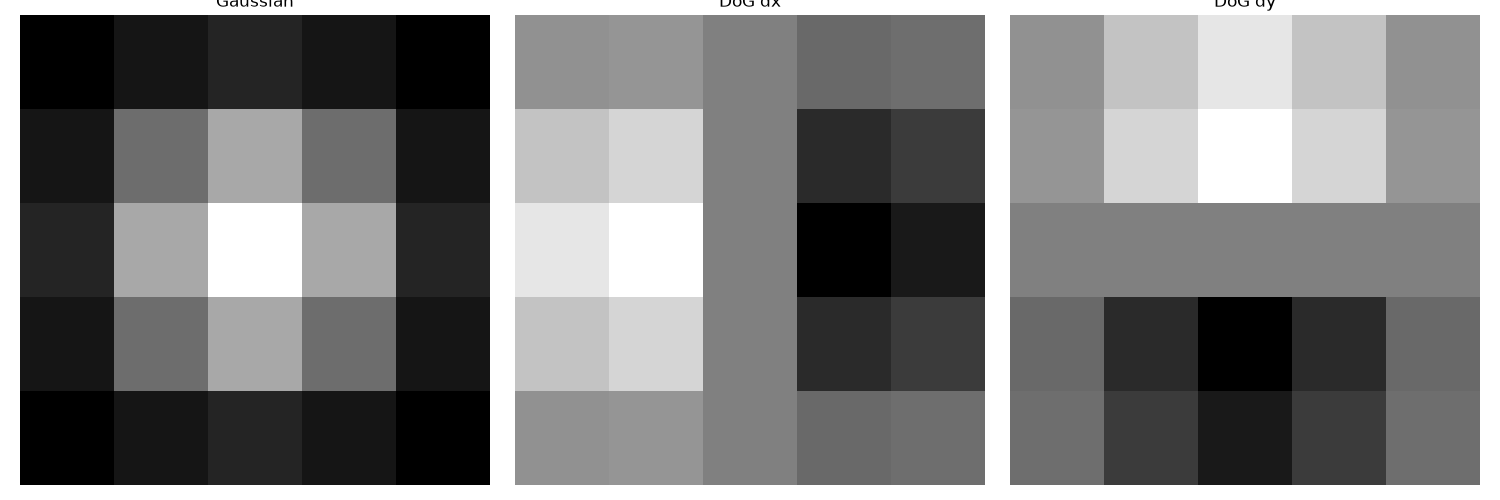
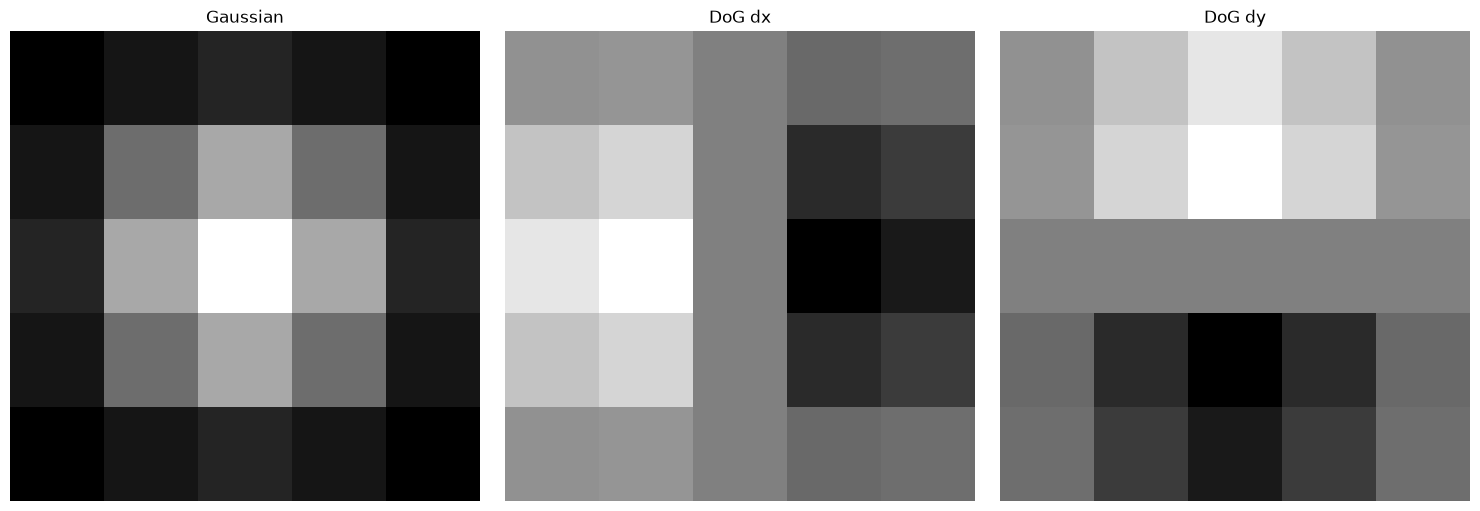
Fix clipped kernel-viz titles and tighten Project 2 page prose

Changed region(s): [[0.0, 0.0, 0.9946, 0.99], [0.0622, 0.21, 0.2797, 0.81]]

diff --git a/2/index.html b/2/index.html
@@ -85,8 +85,8 @@
 
     <h3>1.1: Convolution from scratch</h3>
     <p>
-        Two from-scratch convolutions &mdash; four nested loops, and a two-loop version that vectorizes the
-        kernel-patch multiply-sum &mdash; compared against <code>scipy.signal.convolve2d</code>, all on a
+        Two from-scratch convolutions (four nested loops, and a two-loop version that vectorizes the
+        kernel-patch multiply-sum), compared against <code>scipy.signal.convolve2d</code>, all on a
         9&times;9 box filter.
     </p>
     <div class="full-item">
@@ -142,7 +142,7 @@
     </div>
     <p>
         Blur-then-derivative and the single DoG convolution give the same result (convolution is associative).
-        Both are cleaner than plain finite differences &mdash; the blur removes noise before it can show up as
+        Both are cleaner than plain finite differences. The blur removes noise before it can show up as
         an edge.
     </p>
 
@@ -176,7 +176,7 @@
     <div class="full-item">
         <img src="./media/taj_sharpen_alphas.png" alt="varying alpha">
     </div>
-    <p>Higher alpha means a stronger high-frequency boost &mdash; more visible ringing/haloing past a point.</p>
+    <p>Higher alpha means a stronger high-frequency boost, more visible ringing/haloing past a point.</p>
     <div class="full-item">
         <img src="./media/cat_blur_sharpen.png" alt="blur then sharpen demo">
     </div>
@@ -194,7 +194,7 @@
     </div>
     <p>
         Lowpass is a 21&times;21 Gaussian (sigma picked automatically by <code>cv2.getGaussianKernel</code> from
-        the kernel size). Highpass is an impulse minus 0.7&times; a wide (sigma 10) Gaussian &mdash; wide enough
+        the kernel size). Highpass is an impulse minus 0.7&times; a wide (sigma 10) Gaussian, wide enough
         to strip out most of the low-frequency content, with the 0.7 weight (rather than 1.0) left so it doesn't
         over-subtract and ring at edges.
     </p>
@@ -224,7 +224,7 @@
     </div>
     <p>
         Each row is one pyramid level: apple&times;mask, orange&times;(1&minus;mask), and their sum. The last row
-        sums the entire stack instead of one level &mdash; that's the final blended image.
+        sums the entire stack instead of one level. That's the final blended image.
     </p>
 
     <p>Two more blends, one with a straight-line mask and one with an irregular mask:</p>
@@ -242,7 +242,7 @@
     <p>
         Color scaled down at the fine levels, full strength at the coarse residual. Luminance untouched at
         every level. Humans are more sensitive to color differences at coarse scale than at fine detail, so
-        that's where color should matter most. Same idea as JPEG chroma subsampling.
+        that's where color should matter most.
     </p>
 
     <br>
